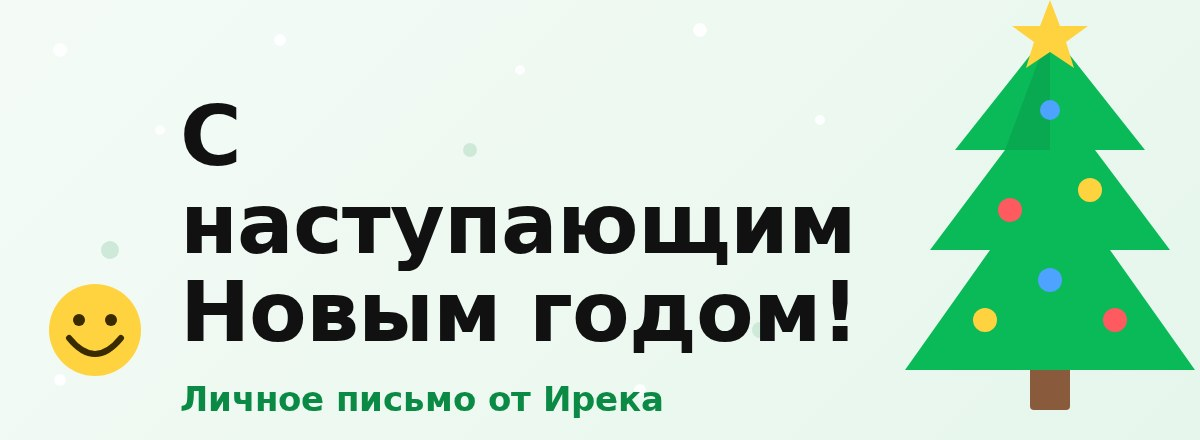
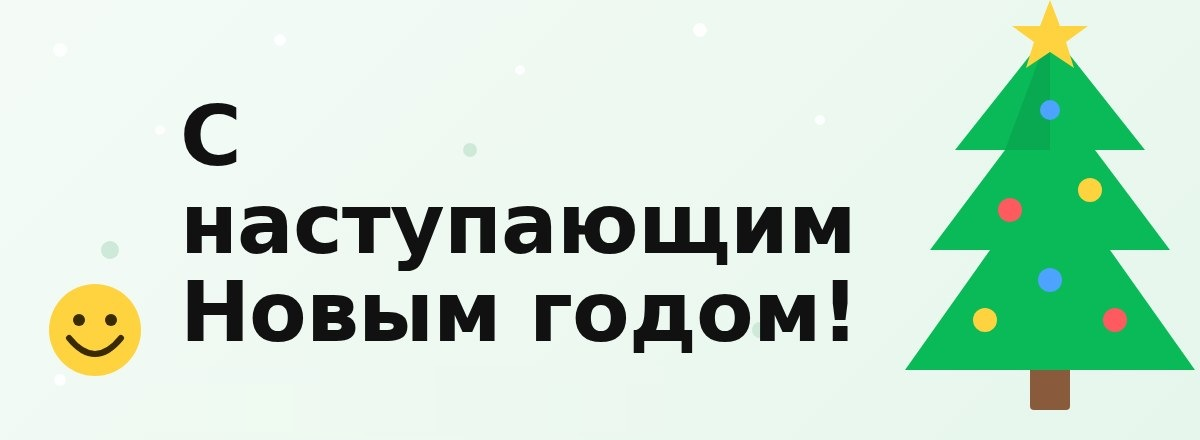
rassylka-ny: письмо по решениям, чистое превью

Changed region(s): [[0.1542, 0.8568, 0.555, 0.9455]]

diff --git a/rassylka-ny-2026/index.html b/rassylka-ny-2026/index.html
@@ -1,109 +1,20 @@
 <!DOCTYPE html>
 <html lang="ru"><head><meta charset="utf-8"><meta name="viewport" content="width=device-width,initial-scale=1"><meta name="robots" content="noindex">
-<title>Новогодняя рассылка 2026: черновик</title>
+<title>Новогоднее письмо: превью</title>
 <style>
 *{box-sizing:border-box}body{margin:0;font:18px/1.55 Arial,Helvetica,sans-serif;color:#111;background:#f4faf6}
 .w{max-width:1040px;margin:0 auto;padding:28px 20px 80px}
-h1{font-size:40px;line-height:1.1;margin:0 0 10px}h2{font-size:28px;margin:48px 0 14px}h3{font-size:20px;margin:0 0 8px}
-.tag{display:inline-block;background:#0aba59;color:#fff;font-weight:bold;border-radius:8px;padding:6px 12px;font-size:16px}
-.warn{background:#fff3cd;border:2px solid #f0c000;border-radius:14px;padding:14px 18px;margin:16px 0}
+h1{font-size:36px;line-height:1.15;margin:0 0 10px}
 .card{background:#fff;border:1px solid #cfe3d6;border-radius:14px;padding:18px 20px;margin:12px 0}
-.grid{display:grid;grid-template-columns:repeat(auto-fit,minmax(300px,1fr));gap:14px}
 .sub{font-size:22px;font-weight:bold}.pre{color:#555;font-size:16px}
-table{border-collapse:collapse;width:100%;font-size:16px;background:#fff}td,th{border:1px solid #cfe3d6;padding:8px 10px;text-align:left;vertical-align:top}th{background:#e6f6ec}
 .mail{display:flex;gap:24px;flex-wrap:wrap;align-items:flex-start}.mail iframe{border:1px solid #cfe3d6;border-radius:14px;background:#fff}
-.ok{color:#0a8a45;font-weight:bold}a{color:#0a8a45}
-img.ph{width:200px;border-radius:14px;border:1px solid #cfe3d6;display:block}
-ul{margin:6px 0 6px 22px;padding:0}li{margin:4px 0}.sm{font-size:15px;color:#555}
+.sm{font-size:15px;color:#555}
 </style></head><body><div class="w">
-<span class="tag">ЧЕРНОВИК · НИЧЕГО НЕ ОТПРАВЛЕНО</span>
-<h1>Новогодняя рассылка по базе: черновик письма от Ирека</h1>
-<p>25.11.2026. Исследование, 3 темы, текст, 2 подарка, макет письма, что нужно для отправки. Клиентам ничего не уходило.</p>
-
-<div class="warn"><b>База в amoCRM (только числа, выгрузки нет).</b> Контактов 4 981, компаний 1 174. Уникальных email: <b>1 993</b> (1 797 из контактов и ещё 196 с карточек компаний), 983 домена. Это влезает в тариф «2 000 контактов», но впритык: после чистки базы запас появится.</div>
-
-<h2>1. Письмо</h2>
-<p>Светлый стиль с ёлочкой и смайликом, как у наших баннеров. Внутри 90 слов, одна кнопка, личная подпись Ирека. Фото в колпаке пока заглушка (см. раздел 4). Ширина письма 600, на телефоне 360.</p>
+<h1>Новогоднее письмо</h1>
+<div class="card"><div class="sub">Тема: С наступающим и подарок вам</div>
+<div class="pre">Прехедер: К заказу ивента до 31 января: мини-фильм вашего мероприятия без доплаты.</div></div>
 <div class="mail">
-<div><div class="sm">Компьютер, 600</div><iframe src="pismo.html" width="640" height="1160" title="Письмо 600"></iframe></div>
-<div><div class="sm">Телефон, 360</div><iframe src="pismo.html" width="360" height="1520" title="Письмо 360"></iframe></div>
+<div><div class="sm">Компьютер, 600</div><iframe src="pismo.html" width="640" height="900" title="Письмо 600"></iframe></div>
+<div><div class="sm">Телефон, 360</div><iframe src="pismo.html" width="360" height="1180" title="Письмо 360"></iframe></div>
 </div>
-<p class="sm">Отдельный файл письма для сервиса рассылок: <a href="pismo.html">pismo.html</a> (таблицы, inline-стили, без JS и веб-шрифтов, картинки по абсолютным ссылкам). Вместо {{unsubscribe_url}} сервис подставит свою ссылку отписки.</p>
-
-<h2>2. Три варианта темы</h2>
-<p class="sm">Правило из исследования: 30-50 символов, 4-7 слов, без капслока и без «!!!». В теме от директора эмодзи не ставим (в B2B они читаются как спам), смайлик живёт в самом письме. Имя отправителя: «Ирек Мансуров, Каталист».</p>
-<div class="grid">
-<div class="card"><div class="sub">1. Ирек Мансуров: с наступающим!</div><div class="pre">29 символов. Прехедер: «Если остались вопросы по новогоднему корпоративу или тимбилдингу, вы знаете, к кому обратиться».</div><p class="sm"><b>Оценка:</b> безопасная, видно, что от человека. Минус: про подарок не сказано.</p></div>
-<div class="card"><div class="sub">2. Спасибо за этот год, коллеги</div><div class="pre">29 символов. Прехедер: «Пишем коротко: в декабре все в работе. И маленький подарок внутри».</div><p class="sm"><b>Оценка:</b> тёплая, по духу Маши («коллеги»). Минус: не говорит, о чём письмо.</p></div>
-<div class="card"><div class="sub">3. С наступающим. И подарок вам</div><div class="pre">30 символов. Прехедер: «К заказу ивента до 31 января: мини-фильм вашего мероприятия без доплаты».</div><p class="sm"><b>Оценка:</b> самая сильная за счёт подарка. Минус: слово «подарок» чаще попадает в промо-вкладку, проверить на тестовой отправке.</p></div>
-</div>
-<p><b>Моя рекомендация: вариант 3, а если тест попадает в «Промо» или «Спам», вариант 1.</b></p>
-
-<h2>3. Два варианта подарка (оба при заказе)</h2>
-<div class="grid">
-<div class="card"><h3>А. Мини-фильм вашего ивента</h3><p>Как придумала Маша: при заказе до 31 января снимаем и монтируем фильм 60-90 секунд о мероприятии клиента. В титрах шутка: «Разработано лично нашим самым креативным отделом».</p>
-<p><b>Плюсы:</b> понятен, запоминается, клиент сам рассылает фильм коллегам (это наша реклама). Шутка снимает «продажность».<br><b>Минусы:</b> нужна съёмка и монтаж на каждый заказ; если съёмка уже входит в ивент, подарок почти бесплатный, иначе есть себестоимость.<br><b>Оценка:</b> основной вариант.</p></div>
-<div class="card"><h3>Б. Новогоднее поздравление от вашей команды</h3><p>На ивенте снимаем 30-секундное поздравление: сотрудники и директор клиента говорят в камеру «С Новым годом». Монтируем ролик для их внутренней рассылки и соцсетей. Та же шутка в титрах.</p>
-<p><b>Плюсы:</b> проще и дешевле А, нужен один оператор на 10 минут; подходит и тем, у кого ивент в январе.<br><b>Минусы:</b> менее «вау»; работает как подарок только до середины января.<br><b>Оценка:</b> запасной, если А слишком дорог.</p></div>
-</div>
-<div class="warn"><b>Условия подарка я придумал, они ждут решения Маши:</b> срок «до 31 января» и «без доплаты». В письме стоит именно это. Если фильм снимает Никита или подрядчик, нужна его цена. Обещание ставим, только если оно правда.</div>
-
-<h2>4. Фото Ирека в колпаке</h2>
-<div style="display:flex;gap:20px;flex-wrap:wrap;align-items:flex-start">
-<div><img class="ph" src="irek-kolpak.jpg" alt="Ирек Мансуров в колпаке (заглушка)"><div class="sm">Заглушка: реальное фото Ирека с сайта, колпак нарисован вектором</div></div>
-<div style="flex:1;min-width:280px"><div class="warn"><b>Генерация не прошла.</b> Gemini ответил 429 (квота бесплатного тарифа равна нулю, повтор не поможет), у fal и OpenAI нулевой баланс. Поэтому колпак нарисован поверх настоящего фото. Выглядит как наклейка.<br><b>Нужно от Маши:</b> ОК на пополнение любого из трёх до $2 (одна картинка стоит около $0,05-0,2), тогда нейросеть посадит колпак естественно, с тенью и светом. Либо Ирек пришлёт своё фото в колпаке: это лучший вариант, живое фото всегда сильнее.</div></div></div>
-
-<h2>5. Исследование коротко (полный файл: ~/noch-25/rassylka-ny.issledovanie.md)</h2>
-<div class="card"><h3>Практики</h3><ul>
-<li>Тёплая B2B-база: открытия 25-40%, отписки меньше 0,5%, жалобы меньше 0,05%. 2-4 письма в месяц для регулярной рассылки; нашу базу давно не трогали, поэтому <b>одно письмо в декабре без дублей</b>. <a href="https://wehaveidea.ru/article/email-marketing-b2b">IDEA, 2026</a></li>
-<li>Оптимум длины 50-125 слов, чем длиннее, тем ниже кликабельность. <a href="https://coldy.ai/blog/how-long-should-an-email-be">coldy.ai</a></li>
-<li>Простое письмо от человека в тестах выигрывает у тяжёлого HTML. <a href="https://blog.hubspot.com/marketing/plain-text-vs-html-emails-data">HubSpot</a>, <a href="https://litmus.com/blog/the-results-are-in-a-b-testing-html-vs-plain-text-emails">Litmus</a>. Litmus называет свой тест неидеальным.</li>
-<li>Тема 30-50 символов, заполненный прехедер даёт +5,4 п.п. к открываемости. <a href="https://calltalk.ru/blog/kak-pisat-temi-pisem-kotorie-otkrivayut/">Calltalk</a>, <a href="https://emailmatrix.ru/blog/email-theme-options/">EmailMatrix</a></li>
-<li>Видео в письме: картинка со ссылкой на страницу, а не вложение. <a href="https://www.unisender.com/ru/blog/kak-dobavit-video-v-pismo-podnyat-otkryvaemost-ctr/">Unisender</a></li></ul></div>
-<div class="card"><h3>Доставляемость и отписка</h3><ul><li>Gmail, Яндекс и Mail.ru требуют SPF, DKIM, DMARC и отписку в один клик (заголовок List-Unsubscribe).</li><li>Отдельный поддомен для рассылок, проверка базы валидатором, первая волна 300-500 самых тёплых адресов, потом остальные. Жалобы читать в тот же день.</li></ul></div>
-<div class="card"><h3>Закон (что говорят источники, это не юридическая консультация)</h3><ul>
-<li>Реклама по email требует предварительного согласия (ст. 18 38-ФЗ). Чистое поздравление рекламой не считается, но фраза про корпоратив и подарок при заказе вместе со ссылкой на сайт <b>делает письмо рекламным</b>: источники однозначного ответа не дают.</li>
-<li>ERID для рассылки по своей базе, по источникам, не нужен (письмо РКН от 24.10.2023). Нужна ли пометка «Реклама», источники спорят.</li>
-<li><b>Проверил живой сайт:</b> в политике конфиденциальности про рекламные рассылки ничего нет, а в формах заявки (_lead.js, forms-chat.js) нет текста про согласие на рассылку. Значит согласия на рекламную рассылку по базе из форм, скорее всего, нет. В подвале сайта есть форма «Подписаться на рассылку», но текста об условиях рассылки рядом нет.</li></ul></div>
-<div class="card"><h3>Сервисы РФ на ~2 000 адресов (цены на 25.11.2026)</h3>
-<table><tr><th>Сервис</th><th>Цена за 2 000 контактов</th><th>Данные в РФ</th><th>amoCRM</th></tr>
-<tr><td><b>Unisender</b> (рекомендую)</td><td>Лайт 1 120 ₽/мес при оплате за год; помесячно дороже, около 1 600 ₽ (мой расчёт, сверить в калькуляторе)</td><td>Да, есть страница локализации, оператор в реестре РКН</td><td>Есть, платно по транзакциям; проще загрузить CSV</td></tr>
-<tr><td>DashaMail</td><td>1 744 ₽/мес за год, 2 180 помесячно</td><td>Заявлено соответствие 152-ФЗ, ЦОД не проверен</td><td>Есть модуль</td></tr>
-<tr><td>Sendsay</td><td>2 270 ₽ за месяц</td><td>Пометка «152-ФЗ», ЦОД не подтверждён</td><td>Есть виджет</td></tr>
-<tr><td>Mailganer</td><td>3 500 ₽/мес</td><td>Да, Selectel</td><td>Через Albato</td></tr></table>
-<p class="sm">SendPulse исключён: прекратил продажи в России. Для одной рассылки лучше месячный тариф, не годовой. <a href="https://unisender.com/ru/prices/">Цены Unisender</a>, <a href="https://dashamail.ru/pricing/">DashaMail</a>, <a href="https://sendsay.ru/rates">Sendsay</a>, <a href="https://mailganer.com/price">Mailganer</a>.</p></div>
-<div class="card"><h3>Кейсы (ссылки на разборы)</h3><ul>
-<li><a href="https://dashamail.ru/blog/pachca-case/">Пачка</a>: ежегодные итоги клиента за год, три сегмента базы, акцент на достижениях клиента.</li>
-<li><a href="https://emailmatrix.ru/blog/case-emx-new-year-email-2021/">EMAILMATRIX, новогоднее письмо</a>: интерактивное поздравление, конверсия 70% при среднем 19%.</li>
-<li><a href="https://emailmatrix.ru/blog/new-year-greetings/">EMAILMATRIX, «Сердитый тигр»</a>: мини-квест, 35,6% дошли до игры.</li>
-<li><a href="https://rdk.digital/case/novogodnyaya-crm-igra-povysila-loyalnost-k-vtb-faktoring">ВТБ Факторинг</a>: новогодняя игра, B2B, 90,4% прошли до конца.</li>
-<li><a href="https://tagline.ru/ailove/cases/ailove--podarki-dlya-klientov-na-noviy-god--interaktivnye-oblozhki-dlya-knig/">Ailove</a>: подарки клиентам от digital-агентства, цифр нет.</li></ul>
-<p class="sm">Вывод: игры для базы в 1 800 адресов дороги. Берём принцип: одно письмо, одно действие, личная деталь.</p></div>
-
-<h2>6. Не согласен, забыто, камни</h2>
-<div class="card"><h3>Не согласен</h3><ul>
-<li><b>Дизайн против личного письма.</b> Исследование: простое письмо от человека в тестах выигрывает у тяжёлого HTML (HubSpot, Litmus). Я собрал лёгкую шапку по слову Маши, ниже текст как личное письмо. Предлагаю <b>A/B-тест</b> на 2 x 300 адресов: этот макет против plain text. Цена теста 0 ₽, вывод на цифрах.</li>
-<li><b>Дата.</b> Письмо зовёт закрыть вопросы по новогоднему корпоративу, а 15-17 декабря большинство уже закрыто. Предлагаю <b>вторник-четверг 1-3 декабря, 9:30-11:00 по Москве</b>. Для чистого поздравления подходят 15-17 декабря. Не слать с 29.12 по 03.01.</li>
-<li><b>«Всем в базе».</b> 1 993 адреса неоднородны: клиенты, лиды, давние контакты. Для лидов старше года шлём последней волной или не шлём (риск жалоб).</li></ul></div>
-<div class="card"><h3>Ты могла забыть</h3><ul>
-<li><b>Ответ и почта Ирека:</b> на какой адрес идут ответы? Личной почты Ирека я не знаю, в письме стоит info@catalystrussia.ru.</li>
-<li><b>Кто разбирает ответы</b> и кто заводит их в amoCRM (метка utm_campaign=ny2026 в ссылке есть).</li>
-<li><b>Страница с фильмом-примером.</b> Подарок убедительнее, если по ссылке виден пример нашего мини-фильма с шуткой в конце.</li>
-<li><b>Согласие и юрист.</b> См. раздел 5: письмо с подарком при заказе рекламное.</li></ul></div>
-<div class="card"><h3>Подводные камни</h3><ul>
-<li>Больше 20% невалидных адресов в давней базе дадут отказы и испортят репутацию домена: сначала проверка валидатором (Unisender 0,32 ₽ за контакт, около 640 ₽ на 2 000).</li>
-<li>Яндекс и Gmail любят прогретые домены: шлём с поддомена, с первой волны 300-500.</li>
-<li>Заглушка с колпаком выглядит как наклейка: в рассылку лучше живое фото.</li></ul></div>
-<div class="card"><h3>На будущее</h3><ul><li>Сегменты в amoCRM (клиент / лид / давний), чтобы следующие письма (8 Марта, лето, январь «стартуем сезон») были точнее.</li><li>Собрать согласие в формах заявки одной галочкой: тогда рассылки становятся законными без споров.</li></ul></div>
-
-<h2>7. Что нужно от Маши для отправки</h2>
-<div class="card"><ol style="margin:6px 0 6px 22px;padding:0">
-<li><b>Согласие на рассылку по базе.</b> Показать письмо юристу или выбрать вариант «чистое поздравление» без подарка и ссылки. Решение на ней, это главный риск.</li>
-<li><b>Сервис.</b> Рекомендую Unisender, месячный тариф «Лайт»: около 1 100 до 1 600 ₽ плюс проверка базы около 640 ₽. Итого меньше 2 300 ₽. Оплата и регистрация аккаунта на ней; я настрою домен, письмо и импорт CSV сам.</li>
-<li><b>ОК на текст и условия подарка</b> (срок «до 31 января», «без доплаты», вариант А или Б).</li>
-<li><b>Фото:</b> ОК на пополнение генерации до $2 или живое фото Ирека в колпаке.</li>
-<li><b>Дата и волны:</b> 1-3 декабря, первая волна 300-500 тёплых, A/B-тест дизайн против plain text.</li>
-<li><b>Адрес ответов:</b> личная почта Ирека или info@.</li></ol></div>
-
-<div class="warn"><b>Не проверено.</b> Суммы штрафов по КоАП в источниках расходятся (100-500 тыс. против 300 тыс. до 1 млн), первоисточник не читал. Месячная цена Unisender Лайт посчитана мной. У Sendsay и DashaMail хранение данных в РФ не подтверждено. Исследование собрано двумя агентами, цены Unisender пересчитаны, остальное сверено выборочно.</div>
 </div></body></html>

diff --git a/rassylka-ny-2026/pismo.html b/rassylka-ny-2026/pismo.html
@@ -1,12 +1,12 @@
 <!DOCTYPE html>
-<html lang="ru"><head><meta charset="utf-8"><meta name="viewport" content="width=device-width,initial-scale=1"><title>Письмо от Ирека: с наступающим</title></head>
+<html lang="ru"><head><meta charset="utf-8"><meta name="viewport" content="width=device-width,initial-scale=1"><title>С наступающим и подарок вам</title></head>
 <body style="margin:0;padding:0;background:#eef3f0;">
 <!-- Прехедер (скрытый текст, видно в списке писем) -->
-<div style="display:none;max-height:0;overflow:hidden;opacity:0;font-size:1px;line-height:1px;color:#eef3f0;">Если остались вопросы по новогоднему корпоративу или тимбилдингу, вы знаете, к кому обратиться. И маленький подарок внутри.&nbsp;&zwnj;&nbsp;&zwnj;&nbsp;&zwnj;&nbsp;&zwnj;&nbsp;&zwnj;</div>
+<div style="display:none;max-height:0;overflow:hidden;opacity:0;font-size:1px;line-height:1px;color:#eef3f0;">К заказу ивента до 31 января: мини-фильм вашего мероприятия без доплаты.&nbsp;&zwnj;&nbsp;&zwnj;&nbsp;&zwnj;&nbsp;&zwnj;&nbsp;&zwnj;</div>
 <table role="presentation" width="100%" cellpadding="0" cellspacing="0" border="0" style="background:#eef3f0;">
 <tr><td align="center" style="padding:16px 8px;">
 <table role="presentation" width="600" cellpadding="0" cellspacing="0" border="0" style="width:100%;max-width:600px;background:#ffffff;border-radius:14px;overflow:hidden;font-family:Arial,Helvetica,sans-serif;color:#111111;">
-  <tr><td style="padding:0;"><img src="https://maria177777773.github.io/previews/rassylka-ny-2026/header.jpg" width="600" alt="С наступающим Новым годом! Личное письмо от Ирека" style="display:block;width:100%;max-width:600px;height:auto;border:0;"></td></tr>
+  <tr><td style="padding:0;"><img src="https://maria177777773.github.io/previews/rassylka-ny-2026/header.jpg" width="600" alt="С наступающим Новым годом!" style="display:block;width:100%;max-width:600px;height:auto;border:0;"></td></tr>
   <tr><td style="padding:28px 32px 8px 32px;font-size:17px;line-height:1.55;">
     <p style="margin:0 0 16px 0;font-size:20px;font-weight:bold;">Коллеги, здравствуйте! 😊</p>
     <p style="margin:0 0 16px 0;">С наступающим Новым годом! Знаем, что в декабре все загружены: отчёты, закрытие года, подготовка к праздникам. Поэтому пишем коротко.</p>
@@ -18,8 +18,8 @@
   </td></tr>
   <tr><td style="padding:20px 32px 8px 32px;">
     <table role="presentation" width="100%" cellpadding="0" cellspacing="0" border="0"><tr>
-      <td width="96" valign="top" style="padding-right:16px;"><img src="https://maria177777773.github.io/previews/rassylka-ny-2026/irek-kolpak.jpg" width="96" alt="Ирек Мансуров в новогоднем колпаке" style="display:block;width:96px;height:auto;border-radius:48px;border:0;"></td>
-      <td valign="middle" style="font-size:16px;line-height:1.5;">Всех благ в новом году!<br><b>Ирек Мансуров</b><br><span style="color:#555555;">исполнительный директор, ивент-агентство «Каталист»</span></td>
+      
+      <td valign="middle" style="font-size:16px;line-height:1.5;padding:0;">Всех благ в новом году!<br><b>Ирек Мансуров</b><br><span style="color:#555555;">исполнительный директор, ивент-агентство «Каталист»</span></td>
     </tr></table>
   </td></tr>
   <tr><td style="padding:12px 32px 4px 32px;font-size:16px;line-height:1.55;">
@@ -27,12 +27,9 @@
     <p style="margin:0 0 4px 0;">💬 <a href="https://t.me/catalyst_agency" style="color:#0a8a45;">Telegram</a> · <a href="https://max.ru/u/f9LHodD0cOKJGPNk8tLsr7rNfEOQc77ksLyB_spYPyOeeyFZdwIjxNIvtZs" style="color:#0a8a45;">Max</a> · <a href="mailto:info@catalystrussia.ru" style="color:#0a8a45;">info@catalystrussia.ru</a></p>
   </td></tr>
   <tr><td style="padding:12px 32px 24px 32px;font-size:15px;line-height:1.5;color:#444444;">
-    <p style="margin:0;"><b>P.S.</b> В конце фильма мелким шрифтом: «Разработано лично нашим самым креативным отделом». Отдел очень старался.</p>
+    <p style="margin:0;">P.S. Разработан лично нашим самым креативным отделом. Отдел очень старался.</p>
   </td></tr>
-  <tr><td style="background:#f6f8f7;padding:18px 32px;font-size:12px;line-height:1.5;color:#777777;">
-    ИП Варламова Мария Вадимовна, ИНН 772865086700. Москва, Берсеневская набережная, 6, стр. 3.<br>
-    Вы получили это письмо, потому что обращались в «Каталист» или работали с нами. <a href="{{unsubscribe_url}}" style="color:#777777;">Отписаться одним щелчком</a>.
-  </td></tr>
+  <tr><td align="center" style="background:#f6f8f7;padding:14px 32px;font-size:12px;line-height:1.5;color:#777777;"><a href="{{unsubscribe_url}}" style="color:#777777;">Отписаться</a></td></tr>
 </table>
 </td></tr></table>
 </body></html>
